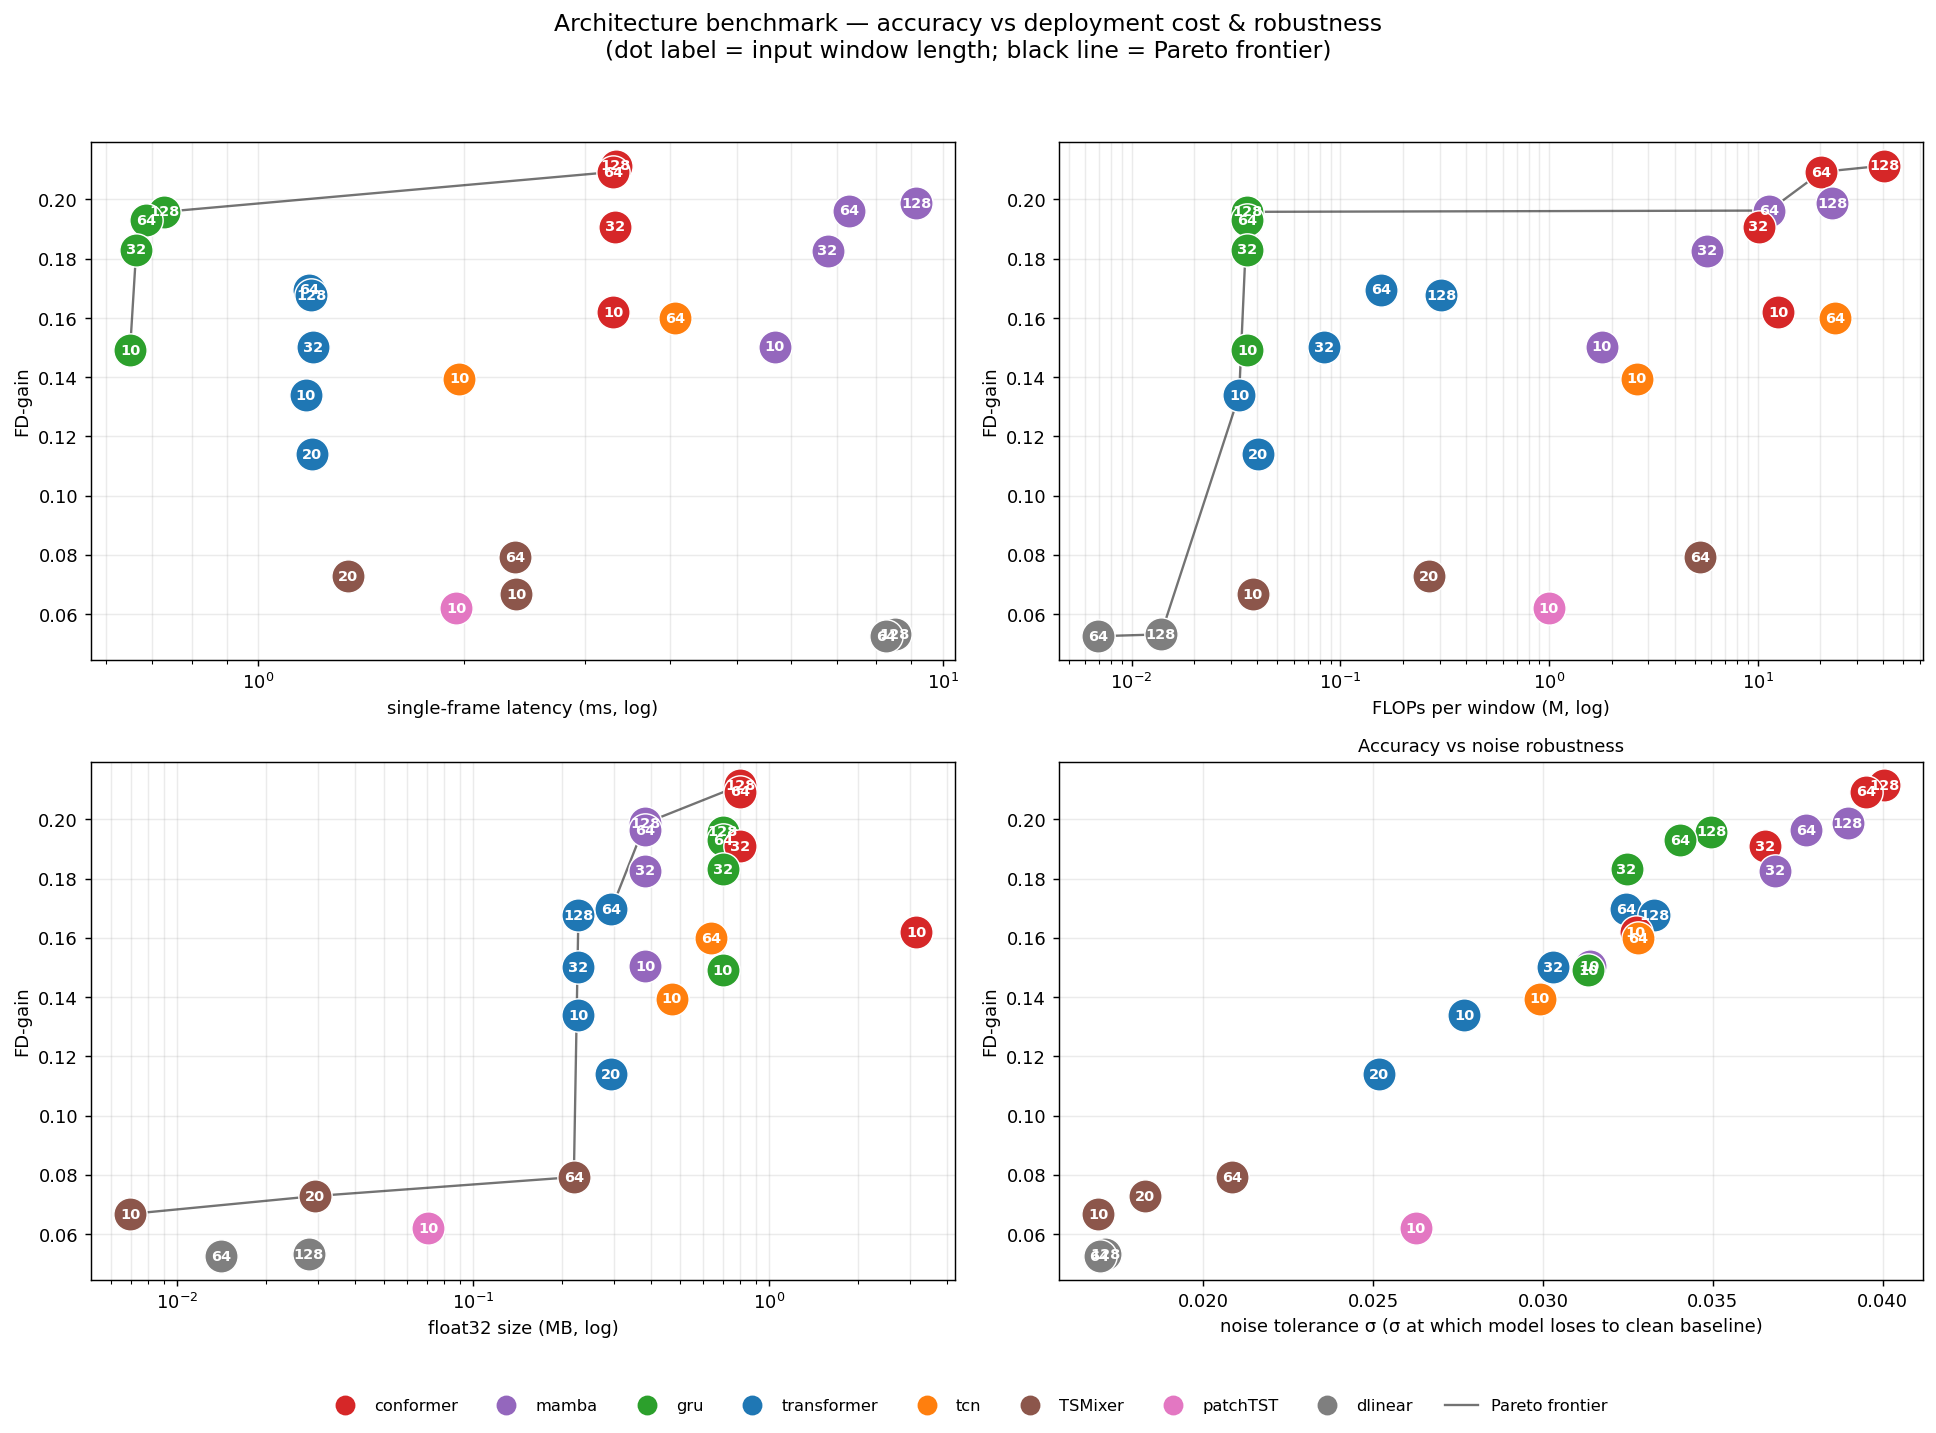
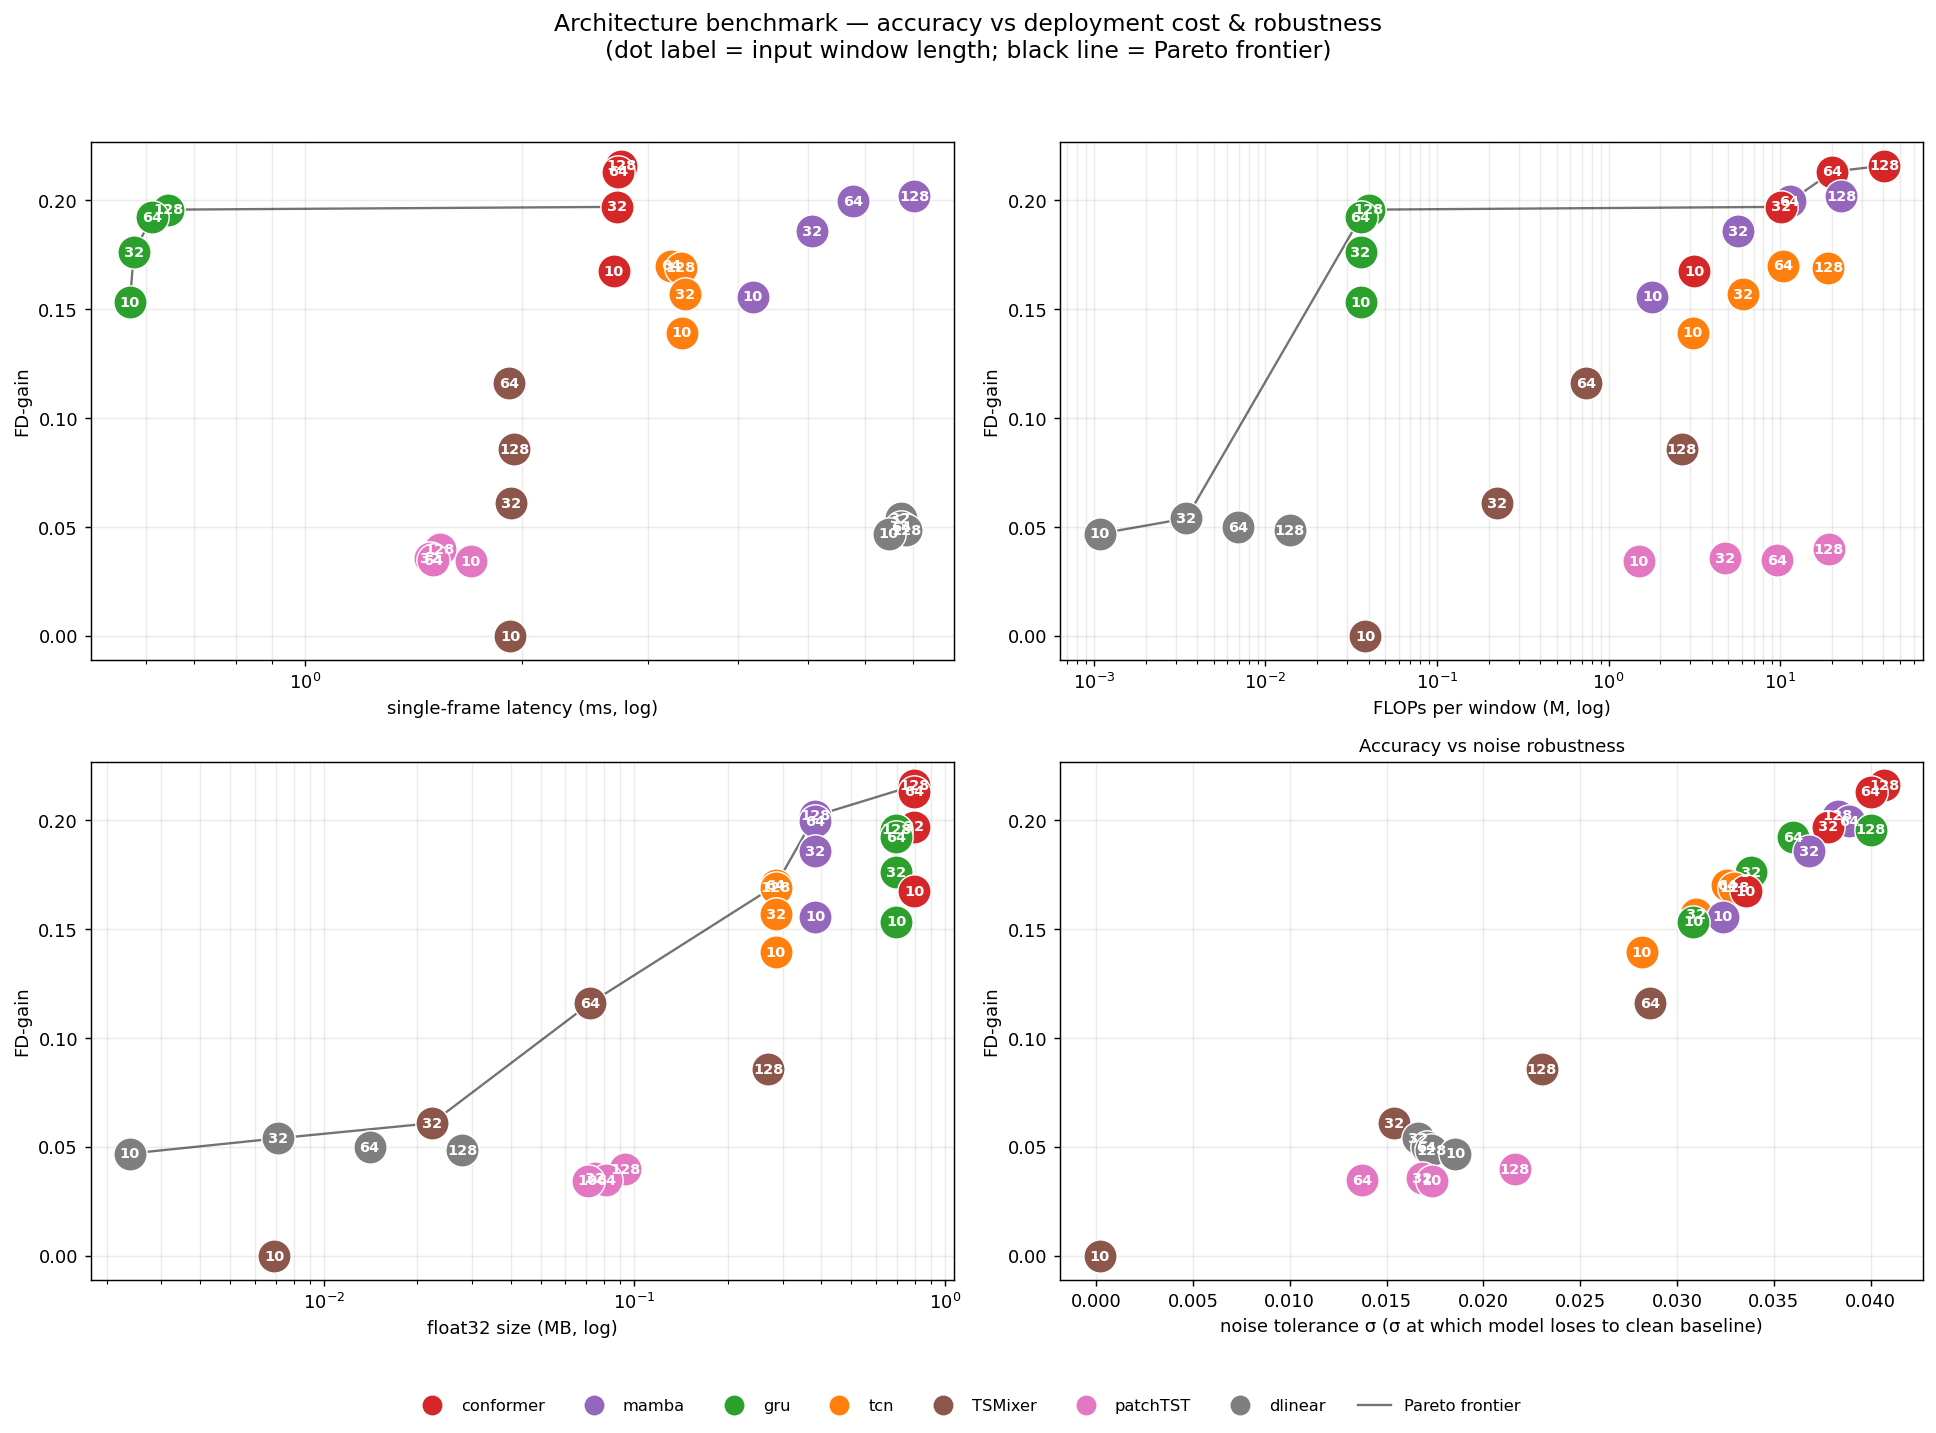
New pareto benchmark png with and without distilled GRU

diff --git a/presentation/main.tex b/presentation/main.tex
@@ -285,6 +285,29 @@ The previous work used a fixed (arbitrary) choice of $\beta = 0.1$. We investiga
 As expected, uncertainty calibration degrades as $\beta$ grows near and past $\beta = 1$, while $FD_{gain}$ rises and then decreases again when $FD_{gain}$ is over-weighted in the loss. This is probably an overfitting phenomenon specific to the $FD_{gain}$ term: even though the loss function at very high $\beta$ is essentially a maximization of $FD_{gain}$, this doesn't generalize well to the validation/test set. 
 Across different scans, the three values $\beta = 0.1, 0.5, 1$ showed the best performances. We chose to use $\beta = 0.5$ as a middle ground between the optimally calibrated but lower $FD_{gain}$ focused $\beta = 0.1$ and the less calibrated but higher $FD_{gain}$ focused $\beta = 1$.
 
+\subsection{$\gamma$ scan (jerk penalty)}
+
+\begin{table}[ht]
+\centering
+\caption{Effect of the jerk-penalty weight $\gamma$ on test-set performance (GRU, sequence length 32).}
+\label{tab:gamma_scan}
+\small
+\begin{tabular}{l c c c}
+\toprule
+$\gamma$ & Mean FD & Mean $FD_{gain}$ & \% Frames $>$ base \\
+\midrule
+0     & 0.1268 & 0.1778 & 78.4 \\
+0.001 & 0.1267 & 0.1785 & 78.5 \\
+0.01  & 0.1267 & 0.1767 & 78.2 \\
+0.1   & 0.1280 & 0.1786 & 79.0 \\
+0.3   & 0.1273 & 0.1798 & 78.8 \\
+0.5   & 0.1285 & 0.1769 & 78.7 \\
+0.7   & 0.1312 & 0.1693 & 78.5 \\
+1     & 0.1363 & 0.1514 & 77.3 \\
+\bottomrule
+\end{tabular}
+\end{table}
+
 \subsection{Data augmentation}
 
 Next, we investigated whether data augmentation could be helpful for this project. Since the translation and rotation parameters are physically related, there is little room for independent transformation of the motion parameters. We investigated two physically plausible transformations: time reversal and negation (sign flip). 
@@ -368,7 +391,7 @@ to the loss function, where the jerk $J(t)$ is computed via finite diffirences a
     J(t) = a(t) - a(t-2) = x(t) - 3x(t-2) + 3x(t-4) - x(t-6)
 \end{equation}
 
-Where the 2-strided input is kept to avoid using in-between frames that the model never sees. We then swept $\gamma$ over many orders of magnitude to study its effect on test performances for the GRU model. The results are shown in Table \ref{tab:gamma_sweep}
+Where the 2-strided input is kept to avoid using in-between frames that the model never sees. We then swept $\gamma$ over many orders of magnitude to study its effect on test performances for the GRU model. The results are shown in Table \ref{tab:gamma_scan}
 
 
 \section{Discussion}